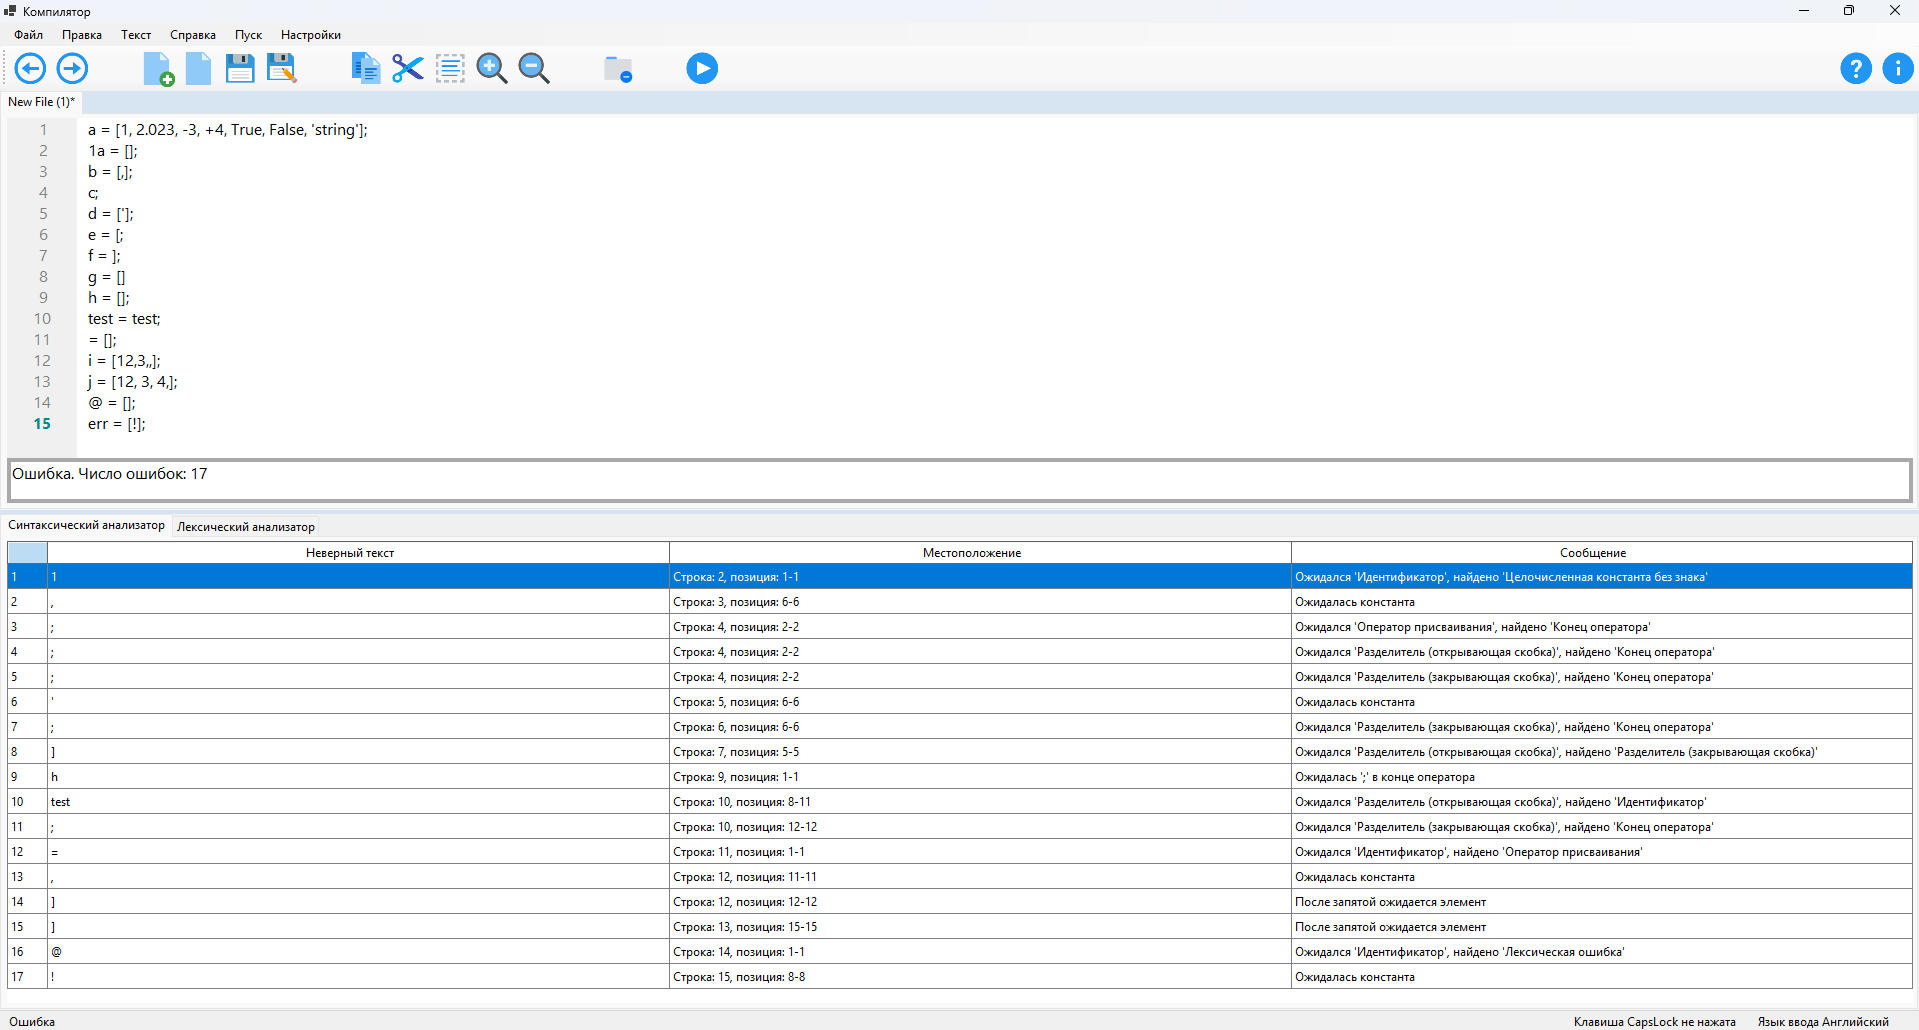
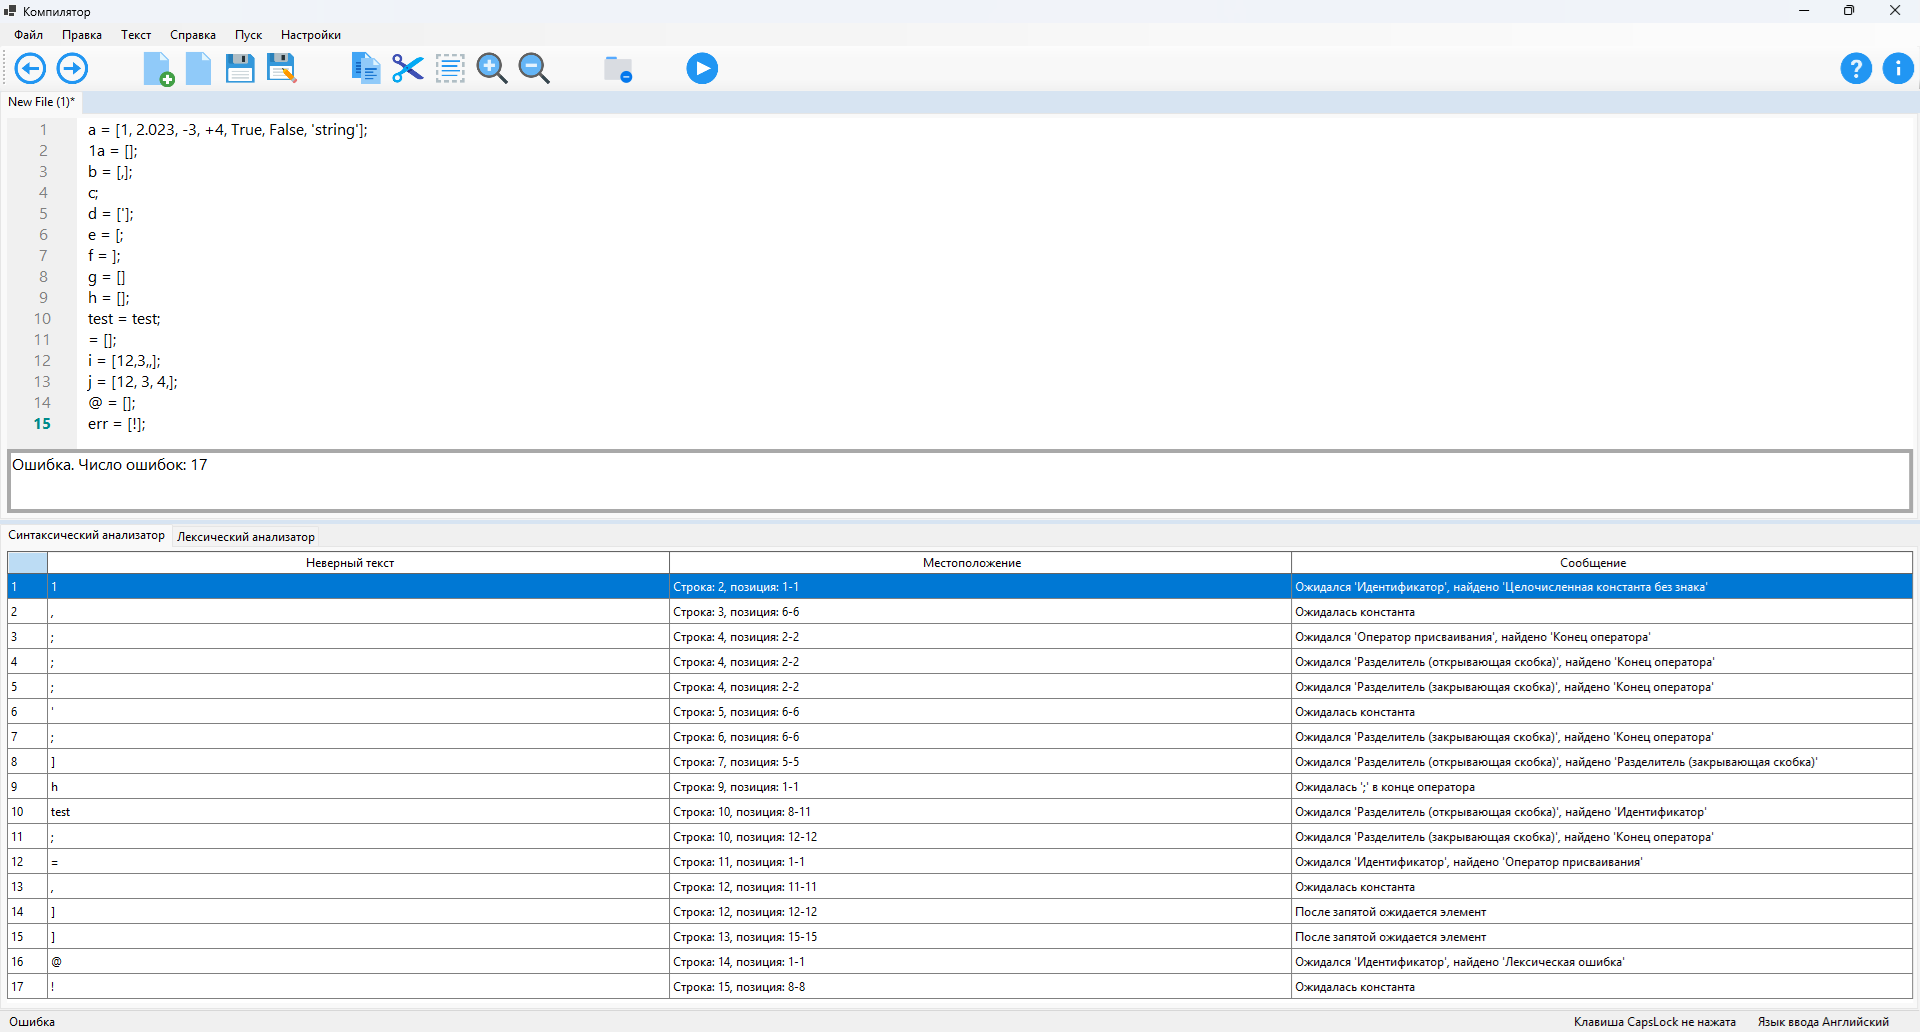
Добавлны картинки

diff --git a/Compiler/Compiler/HTML/Tests.html b/Compiler/Compiler/HTML/Tests.html
@@ -28,10 +28,25 @@ err = [!];</code></pre>
 
     <h2>Результаты</h2>
     <p>Результаты тестирования представлены в виде фото.</p>
-
+    <p>Синтаксический анализатор.</p>
     <div class="image-container">
-        <img src="test_result.png" alt="Результаты тестирования">
+        <img src="Test.png" alt="Результаты тестирования">
     </div>
-
+    <p>Лексический анализатор.</p>
+    <div class="image-container">
+        <img src="Test1.png" alt="Результаты тестирования">
+    </div>
+    <div class="image-container">
+        <img src="Test2.png" alt="Результаты тестирования">
+    </div>
+    <div class="image-container"> 
+        <img src="Test3.png" alt="Результаты тестирования">
+    </div>
+    <div class="image-container">
+        <img src="Test4.png" alt="Результаты тестирования">
+    </div>
+    <div class="image-container">
+        <img src="Test5.png" alt="Результаты тестирования">
+    </div>
 </body>
 </html>

diff --git a/Compiler/Compiler/HTML/styles.css b/Compiler/Compiler/HTML/styles.css
@@ -82,18 +82,28 @@ pre code {
     padding: 20px;
     background-color: #181825;
     border-radius: 10px;
+    overflow: visible;
 }
 
 img {
     max-width: 100%;
     height: auto;
+    display: block;
+    margin: 0 auto;
     border-radius: 8px;
     border: 1px solid #313244;
-    transition: transform 0.3s ease;
+    transition: all 0.4s ease-in-out;
+    image-rendering: -webkit-optimize-contrast;
+    image-rendering: crisp-edges;
+    cursor: zoom-in;
 }
 
     img:hover {
-        transform: scale(1.02);
+        transform: scale(1.3);
+        border-color: #cba6f7;
+        box-shadow: 0 15px 35px rgba(0, 0, 0, 0.6);
+        z-index: 10;
+        position: relative;
     }
 
 b, strong {

diff --git a/Compiler/Compiler/HTML/Method.html b/Compiler/Compiler/HTML/Method.html
@@ -18,6 +18,8 @@
         Анализатор последовательно считывает символы входной строки
         и проверяет соответствие правилам грамматики.
     </p>
-
+    <div class="image-container">
+        <img src="Graph.png" alt="Граф автоматной грамматики">
+    </div>
 </body>
 </html>

diff --git a/Compiler/Compiler/HelpClass/ResourceHelper.cs b/Compiler/Compiler/HelpClass/ResourceHelper.cs
@@ -22,6 +22,14 @@ namespace CompilerGUI.HelpClass
             ExtractFile("CompilerGUI.HTML.Method.html", "Method.html");
             ExtractFile("CompilerGUI.HTML.References.html", "References.html");
             ExtractFile("CompilerGUI.HTML.Tests.html", "Tests.html");
+            
+            ExtractFile("CompilerGUI.HTML.Test.png", "Test.png");
+            ExtractFile("CompilerGUI.HTML.Test1.png", "Test1.png");
+            ExtractFile("CompilerGUI.HTML.Test2.png", "Test2.png");
+            ExtractFile("CompilerGUI.HTML.Test3.png", "Test3.png");
+            ExtractFile("CompilerGUI.HTML.Test4.png", "Test4.png");
+            ExtractFile("CompilerGUI.HTML.Test5.png", "Test5.png");
+            ExtractFile("CompilerGUI.HTML.Graph.png", "Graph.png");
 
             ExtractFile("CompilerGUI.HTML.styles.css", "styles.css");
         }

diff --git a/Compiler/Compiler/Scaner/Lexer.cs b/Compiler/Compiler/Scaner/Lexer.cs
@@ -192,12 +192,19 @@ namespace CompilerGUI.Scaner
                 if (char.IsDigit(c)) 
                 {
                     string lexeme = "";
-                    while (pos < text.Length && char.IsDigit(text[pos]))
+                    if (c != '0')
+                    {
+                        while (pos < text.Length && char.IsDigit(text[pos]))
+                        {
+                            lexeme += text[pos];
+                            col++; pos++;
+                        }
+                    }
+                    else 
                     {
                         lexeme += text[pos];
                         col++; pos++;
                     }
-
                     TokenType tokenType = TokenType.Error;
 
                     if (pos < text.Length && text[pos] == '.') 

diff --git a/Compiler/Compiler/Views/CompilerForm.cs b/Compiler/Compiler/Views/CompilerForm.cs
@@ -450,7 +450,7 @@ namespace CompilerGUI
 
         private void gitURLMI_Click(object sender, EventArgs e)
         {
-            string url = "https://github.com/Tairchik/Compiler";
+            string url = "https://github.com/Tairchik/Compiler/tree/course";
             try
             {
                 Process.Start(new ProcessStartInfo

diff --git a/Compiler/Compiler/Controllers/ExceptionsCodeController.cs b/Compiler/Compiler/Controllers/ExceptionsCodeController.cs
@@ -1,6 +1,5 @@
 using CompilerGUI.HelpClass;
 using CompilerGUI.Scaner;
-
 using System;
 using System.Collections.Generic;
 using System.ComponentModel;
